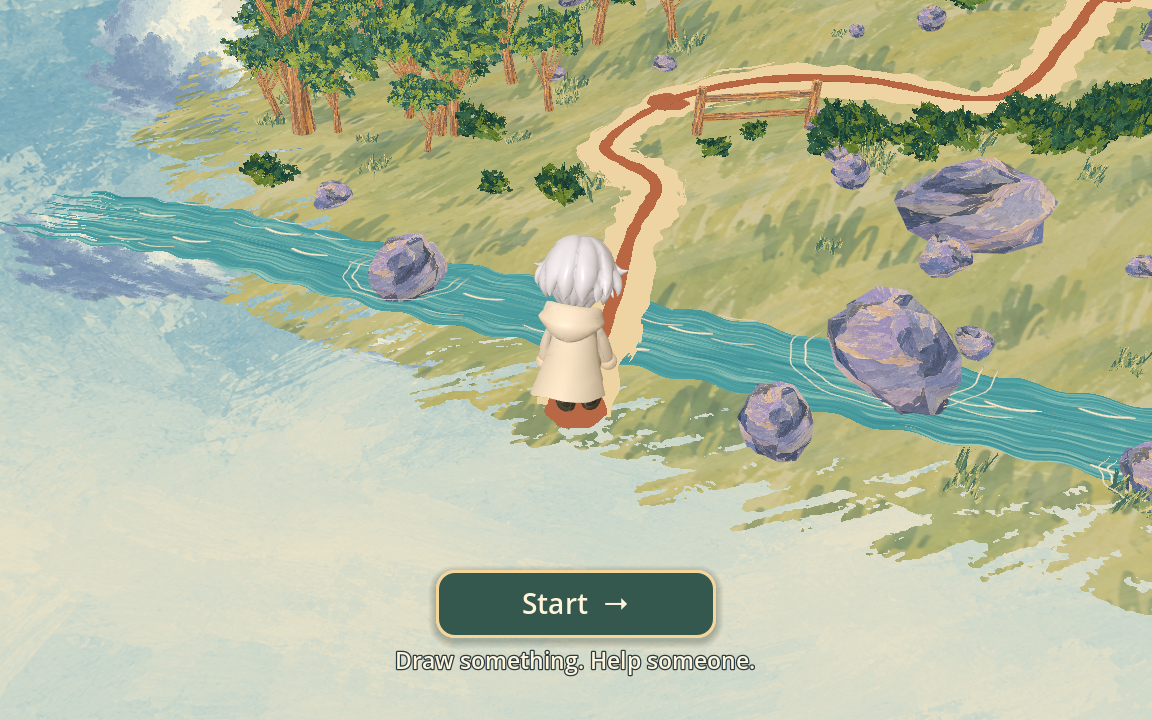
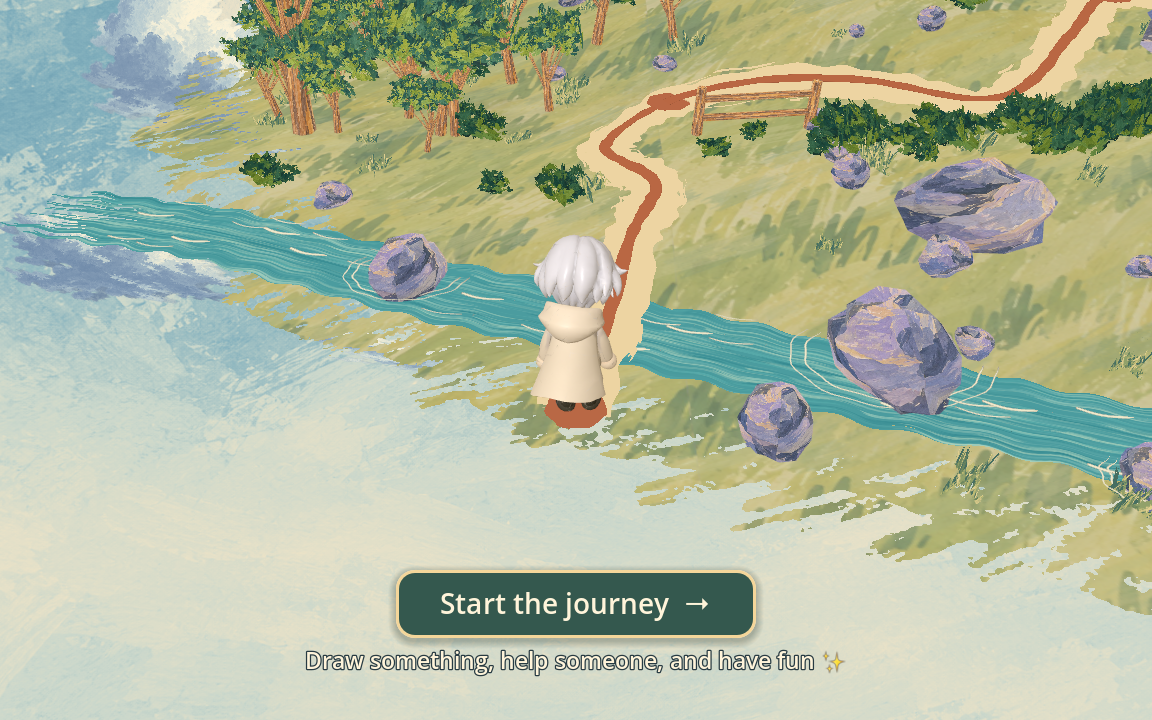
Polish journey copy and show hints for the active input device

diff --git a/docs/3d_game/OVERWORLD_INTEGRATION.md b/docs/3d_game/OVERWORLD_INTEGRATION.md
@@ -3,10 +3,11 @@
 ## Behavior
 
 F5 opens the supplied storybook map in daylight, holds the full view and zooms
-to the protagonist at Chapter 1. It stays there with one prominent **Start**
+to the protagonist at Chapter 1. It stays there with one prominent **Start the journey**
 button until the player clicks it or uses Enter/controller confirm. The page
 then turns into Across the River; its existing spawn physics let the character
 drop onto the path after the reveal. Repeated activation starts only once.
+The supporting copy reads “Draw something, help someone, and have fun ✨”.
 
 The existing forward exits in Chapters 1–4 return to the map. The page turn
 reveals a close view of the chapter just completed. As the camera pulls back,
@@ -132,3 +133,19 @@ once during shutdown after passing the map assertions. The native full-flow run
 completed with exit code 0; map instances, page textures and input blockers were
 released. Sandboxed headless runs can additionally report a macOS certificate
 access diagnostic. Web export and browser rendering remain unverified.
+
+## Playtest follow-up
+
+The River drawing button shows **E · Draw** for keyboard/mouse input. Active
+controller input switches the drawing and control hints to that controller’s
+layout; mouse/keyboard input or unplugging the controller restores keyboard
+hints. Small stick drift does not switch layouts. `input_hints_smoke.gd` checks
+these transitions and the Xbox, PlayStation and Switch label mappings.
+
+The updated opening copy was checked at 1152×720 and 850×720. The desktop
+generation smoke, River smoke and all 21 backend unit tests passed with offline
+fixtures. A missing private configuration in the isolated preview checkout
+caused the reported generation configuration error; reconnecting the existing
+ignored configuration passed validation with provider requests blocked. This
+does not establish live provider availability. See the
+[checkout setup notes](DESKTOP_GENERATION.md#separate-checkouts-and-worktrees).

diff --git a/README.md b/README.md
@@ -20,7 +20,7 @@ root as the project entry point; [AGENTS.md](AGENTS.md) stays here for coding-as
 ## Open and run
 
 1. In Godot's Project Manager, click **Import** and select `3d_game/project.godot`.
-2. Open the project and press **F5** (or click Run Project) to launch the **world map intro**, which pauses at the hero for **Start** before entering **Across the River**.
+2. Open the project and press **F5** (or click Run Project) to launch the **world map intro**, which pauses at the hero for **Start the journey** before entering **Across the River**.
 3. The repository root is for documentation and Git; the Godot project lives in `3d_game/`.
 
 Use **Godot 4.7.2 Standard**. The project uses built-in **GodotPhysics3D**; the bundled
@@ -57,14 +57,14 @@ bridgehead, doubles the Stage 1 character visual, and brings its normal camera a
 
 ## World map and chapter turns
 
-The opening shows the daylight map and zooms to the protagonist. Click **Start**
+The opening shows the daylight map and zooms to the protagonist. Click **Start the journey**
 (or use Enter/controller confirm) to turn into the first chapter; the character
 then drops onto the path. The opening waits as long as you need.
 
 After each forward exit in Chapters 1–4, the page turns back to the map, the
 protagonist walks to the next chapter, and the camera zooms in before entering
 automatically. The map changes to sunset before Chapter 3 and night before
-Chapter 5. **Play again** returns to the daylight map and **Start**. See
+Chapter 5. **Play again** returns to the daylight map and **Start the journey**. See
 [Overworld integration](docs/3d_game/OVERWORLD_INTEGRATION.md) for source assets
 and verification.
 

diff --git a/docs/3d_game/DESKTOP_GENERATION.md b/docs/3d_game/DESKTOP_GENERATION.md
@@ -35,6 +35,21 @@ the same screen position and size. Each visual replaces the previous stage: sket
 reference image → model. No sketch sprite is attached to the completed model.
 The mode cannot change while a request is pending.
 
+## Separate checkouts and worktrees
+
+Git does not copy the ignored `backend/.env` or `backend/.venv` into another
+checkout. A game launched from a new worktree uses that worktree's backend by
+default, so Live AI reports a configuration error even when the original
+checkout is configured. Before a local preview, provide an ignored `.env` in
+that checkout (a local symlink to the existing private file is sufficient) and
+ensure its Python interpreter is available. Do not commit the configuration,
+symlink, virtual environment or generated output.
+
+Restart the game after correcting setup. Validate configuration without provider
+requests and run the offline desktop generation smoke before retrying Live AI.
+Offline success verifies the local worker and model delivery, not the remote
+providers or account credits.
+
 ## Lifecycle and files
 
 Each game session owns an ignored `backend/output/game_bridge/worker-<id>/`

diff --git a/docs/SPEC.md b/docs/SPEC.md
@@ -1061,7 +1061,7 @@ small and large drawings should remain prominent without clipping the cover.
 
 The latest user playtest revision supersedes the earlier **Next page** step.
 Start with the full daylight map, zoom to the protagonist at Chapter 1, then
-hold that closeup with one prominent **Start** CTA. Do not enter the river until
+hold that closeup with one prominent **Start the journey** CTA. Do not enter the river until
 the player confirms. Clicking Start turns into the first scene, after which the
 protagonist drops onto the path through the existing spawn physics.
 
